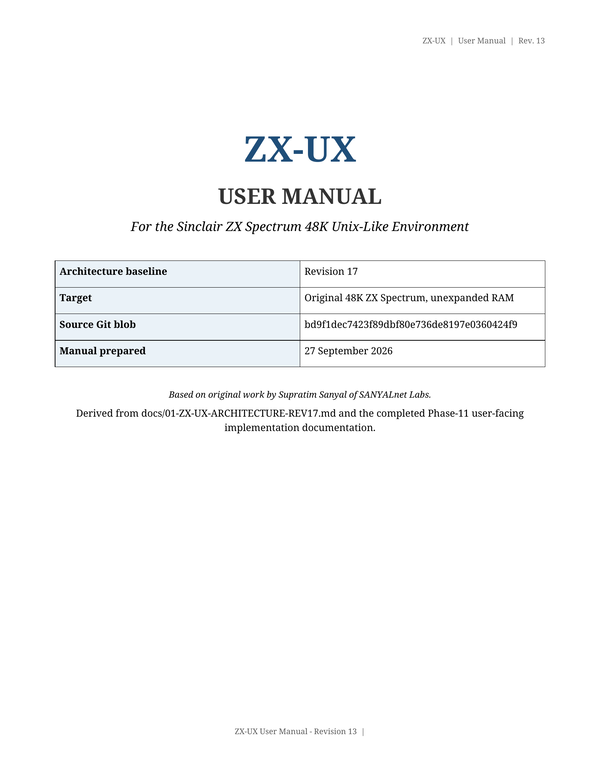
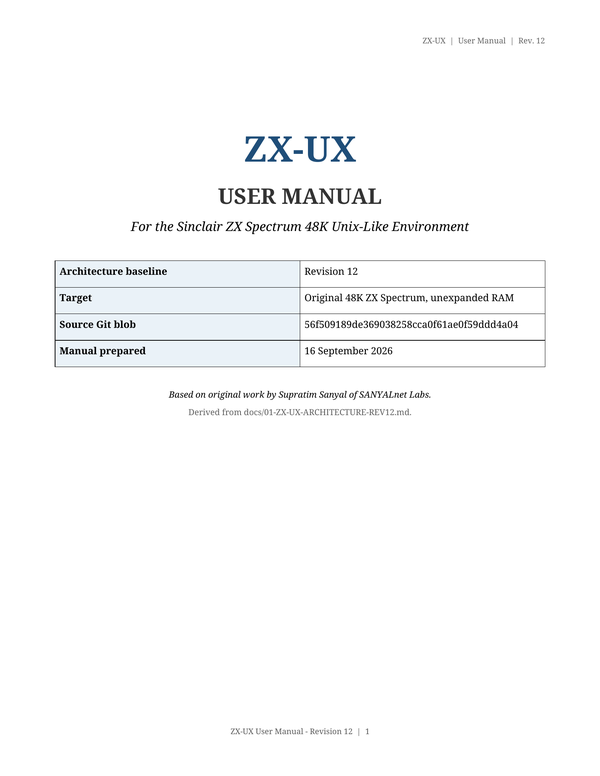
Ignore Office documents in license header scan and restore user manual cover

Changed region(s): [[0.12, 0.5258, 0.87, 0.5567], [0.51, 0.4021, 0.87, 0.4639], [0.39, 0.9278, 0.6, 0.9588]]

diff --git a/docs/03-ZX-UX-DEVELOPMENT-WORKFLOW.md b/docs/03-ZX-UX-DEVELOPMENT-WORKFLOW.md
@@ -80,7 +80,7 @@ Every other project text artifact except README files carries the ZX-UX copyrigh
 
 Use valid comment syntax for the artifact. Syntax-mandated first lines remain first. A shell shebang, for example, remains line 1 and the license header begins on line 2.
 
-The checker examines project files from the working directory while excluding repository-internal metadata. Root `LICENSE`, README files, and the complete `v1/dist/media/` tree are standing exemptions from embedded license-header checking. The media-tree exemption exists because retained Spectrum artifacts and manifests are durable generated/distribution records whose integrity is enforced separately by `tools/check_media_retention.py` where applicable. Outside those standing exemptions, binary files, symlinks, and other non-regular artifacts fail closed unless their exact path has an explicit approved exemption in the checker. Submodules are not permitted unless the gate is first explicitly extended and approved through the normal process. A text format that cannot legally carry comments also requires an exact path-specific approved exception.
+The checker examines project files from the working directory while excluding repository-internal metadata. Root `LICENSE`, README files, Microsoft Office documents, and the complete `v1/dist/media/` tree are standing exemptions from embedded license-header checking. Microsoft Office documents are ignored by the embedded-header scan as a format class; any separate exact-byte or authority-integrity checks that apply to a particular Office document remain in force. The media-tree exemption exists because retained Spectrum artifacts and manifests are durable generated/distribution records whose integrity is enforced separately by `tools/check_media_retention.py` where applicable. Outside those standing exemptions, binary files, symlinks, and other non-regular artifacts fail closed unless their exact path has an explicit approved exemption in the checker. Submodules are not permitted unless the gate is first explicitly extended and approved through the normal process. A text format that cannot legally carry comments also requires an exact path-specific approved exception.
 
 Any failure is a defect. Fix it and restart at `SCAN-1`.
 
